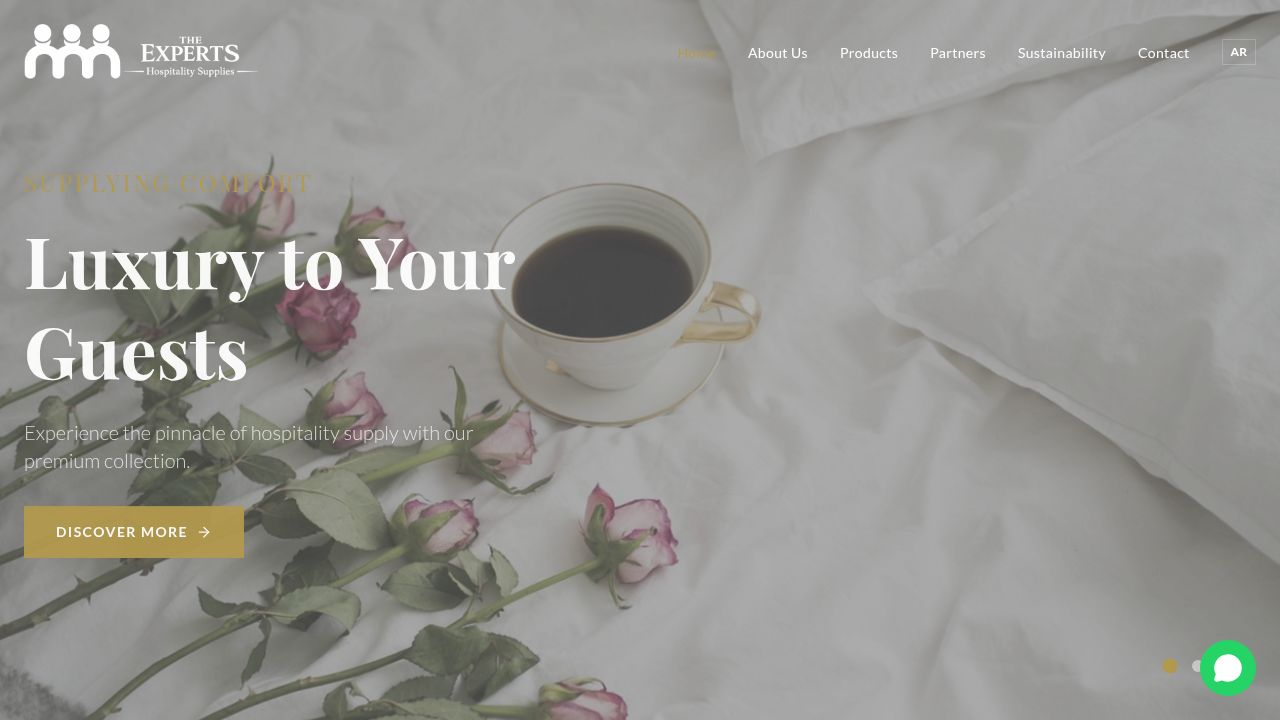
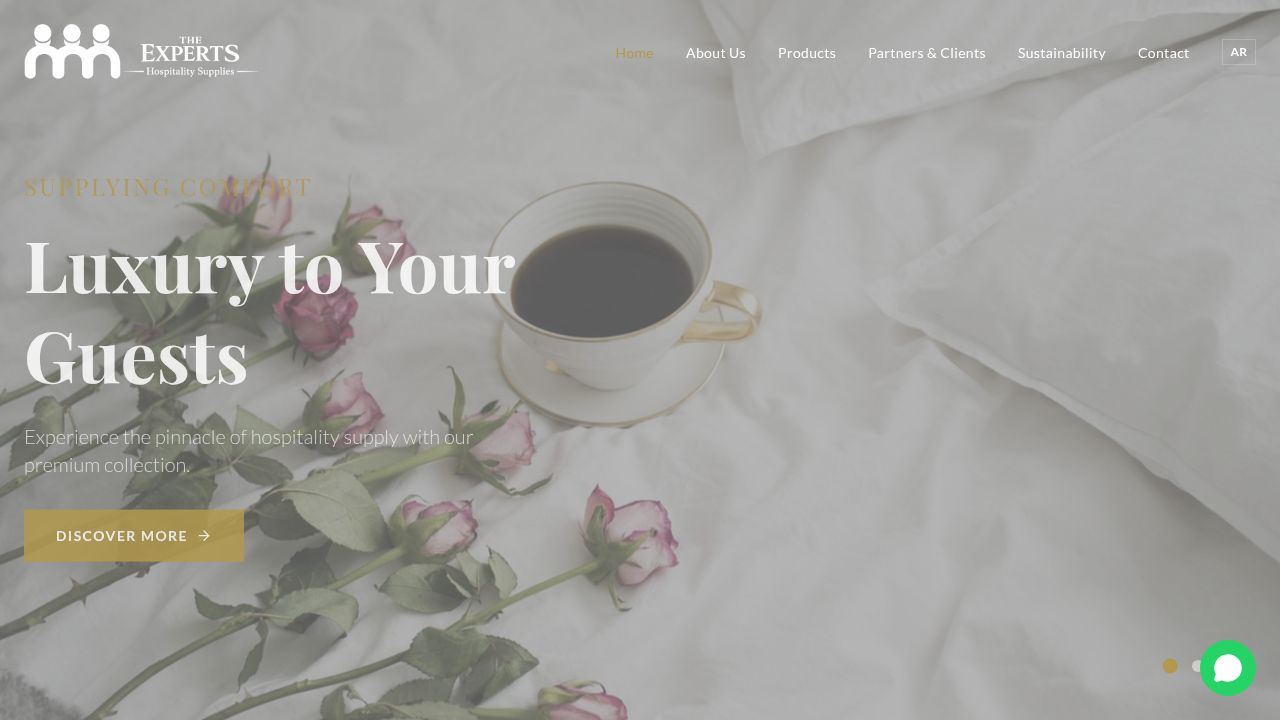
Update website text to reflect "Partners & Clients" branding
Update translations in LanguageContext.tsx to change "partners" to "Partners & Clients" in both English and Arabic.

Replit-Commit-Author: Agent
Replit-Commit-Session-Id: a283c001-5d54-4bec-8a51-4e26446a31da
Replit-Commit-Checkpoint-Type: full_checkpoint
Replit-Commit-Event-Id: fe6b5fd3-5c39-4f18-a4e4-b1e760d12a3a
Replit-Commit-Screenshot-Url: https://storage.googleapis.com/screenshot-production-us-central1/e24cf016-21c9-4399-a654-3af271d57383/a283c001-5d54-4bec-8a51-4e26446a31da/SLVxTVu
Replit-Helium-Checkpoint-Created: true

diff --git a/client/src/context/LanguageContext.tsx b/client/src/context/LanguageContext.tsx
@@ -14,7 +14,7 @@ const translations: Record<Language, Record<string, string>> = {
     home: "Home",
     about: "About Us",
     products: "Products",
-    partners: "Partners",
+    partners: "Partners & Clients",
     partners_clients: "Partners & Clients",
     sustainability: "Sustainability",
     contact: "Contact",
@@ -113,7 +113,7 @@ const translations: Record<Language, Record<string, string>> = {
     home: "الرئيسية",
     about: "من نحن",
     products: "المنتجات",
-    partners: "شركاؤنا",
+    partners: "شركاؤنا وعملاؤنا",
     partners_clients: "شركاؤنا وعملاؤنا",
     sustainability: "الاستدامة",
     contact: "اتصل بنا",
